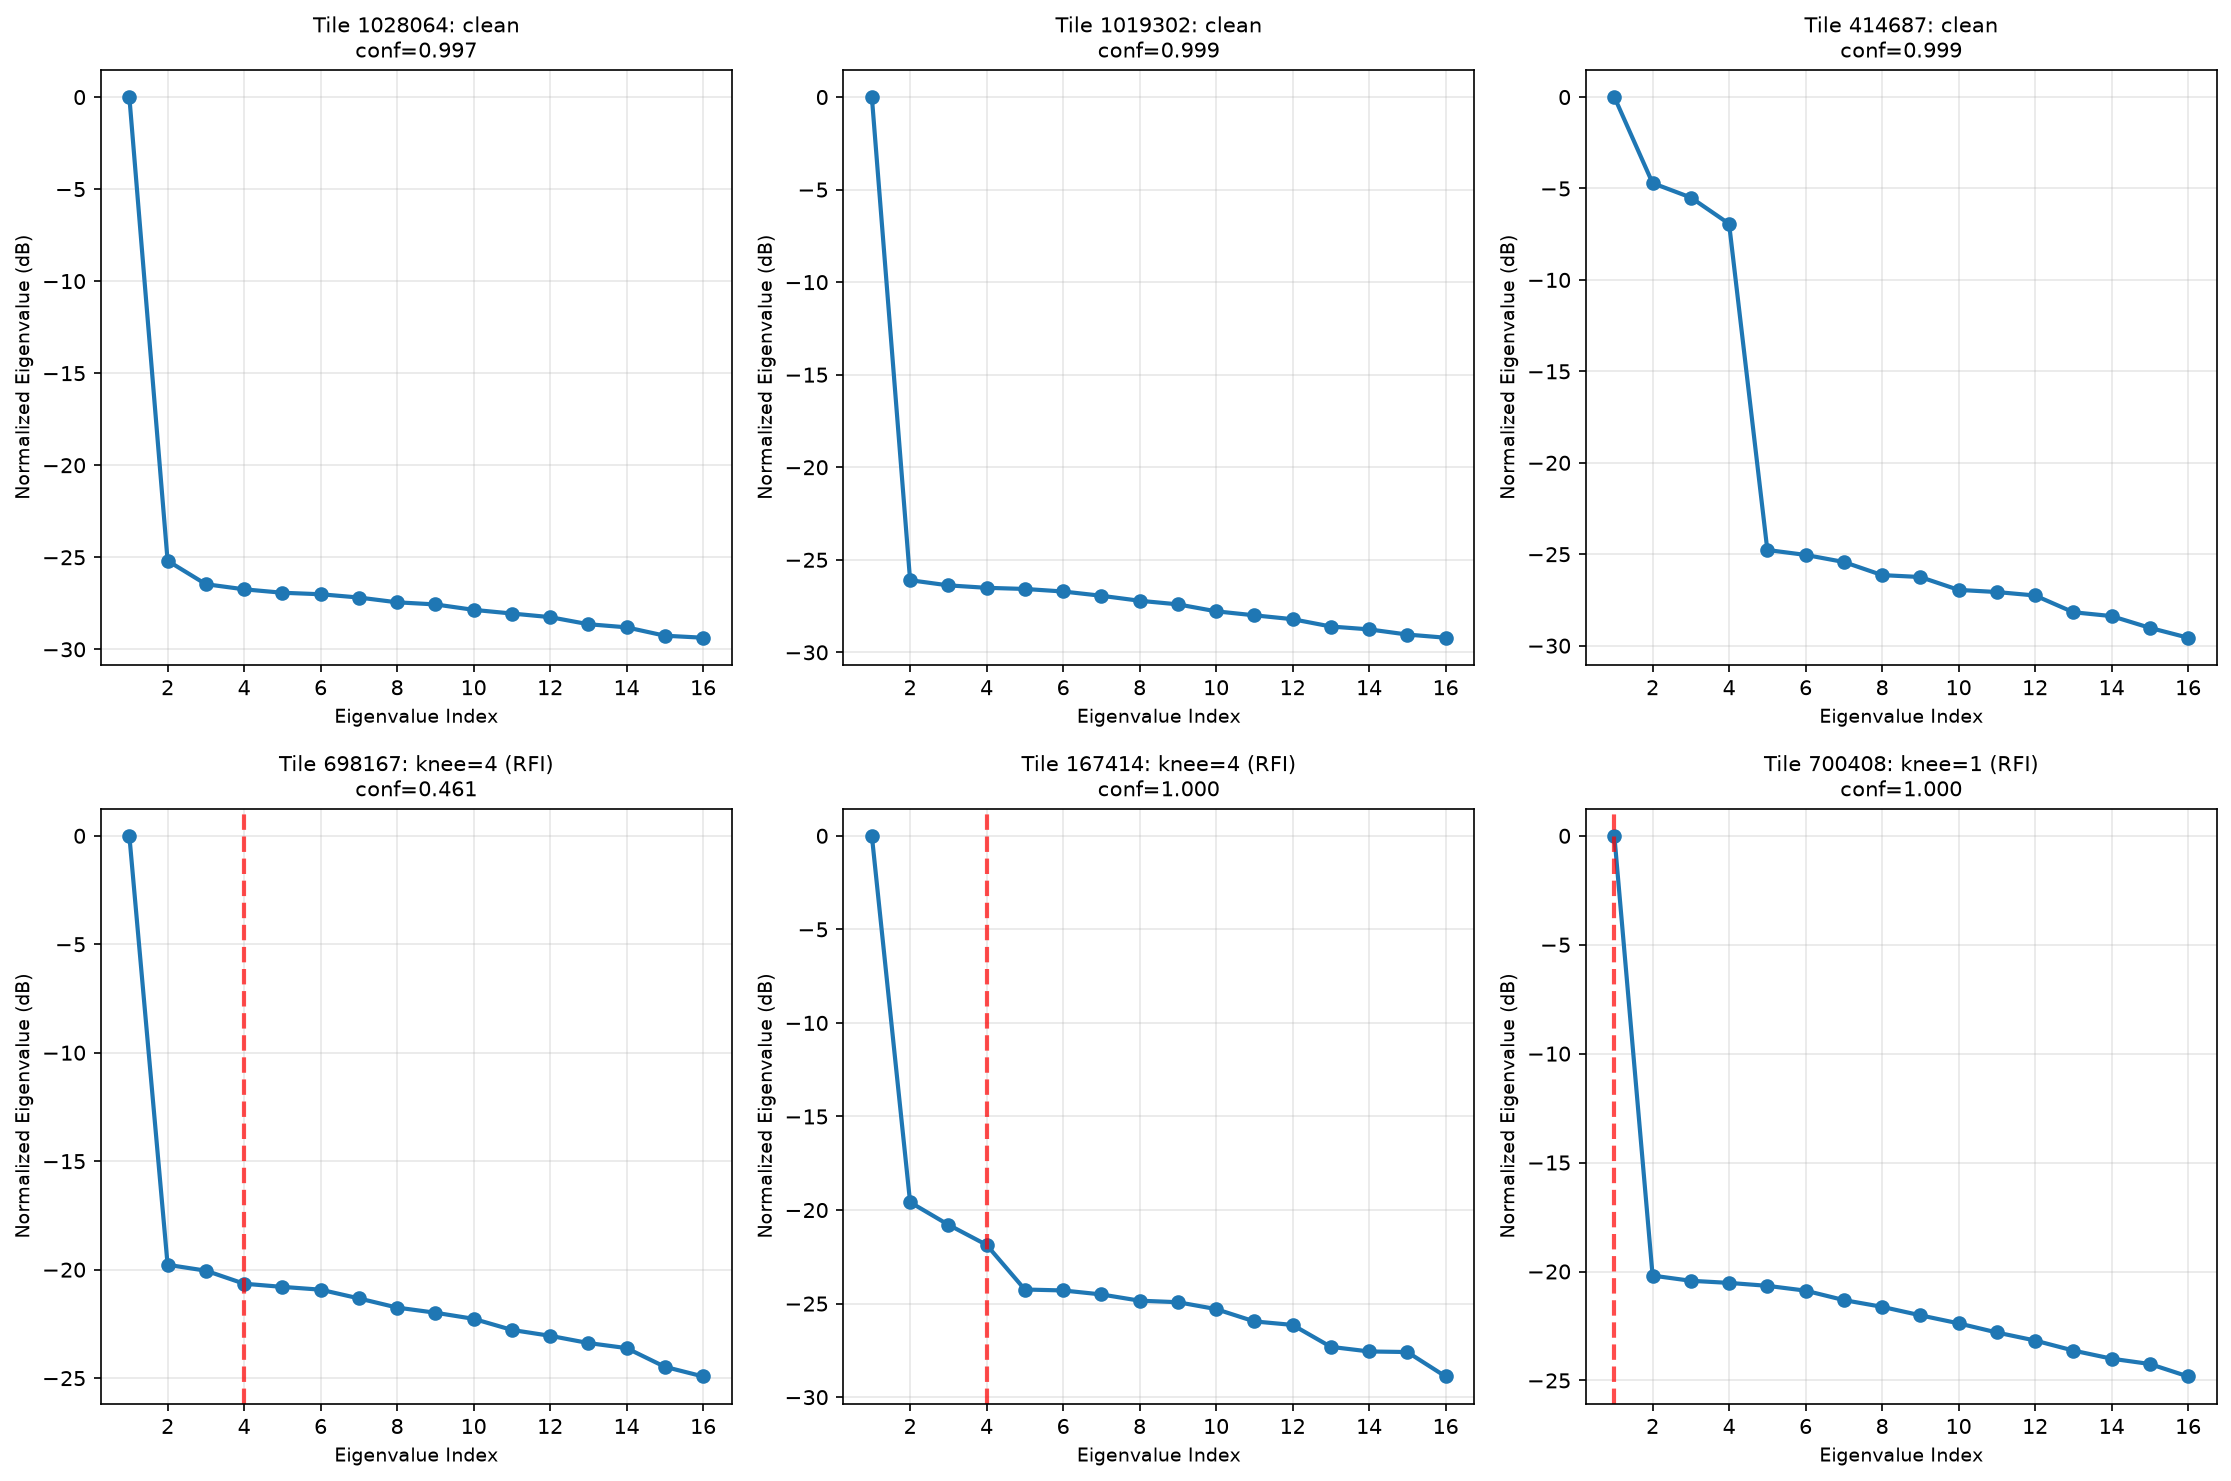
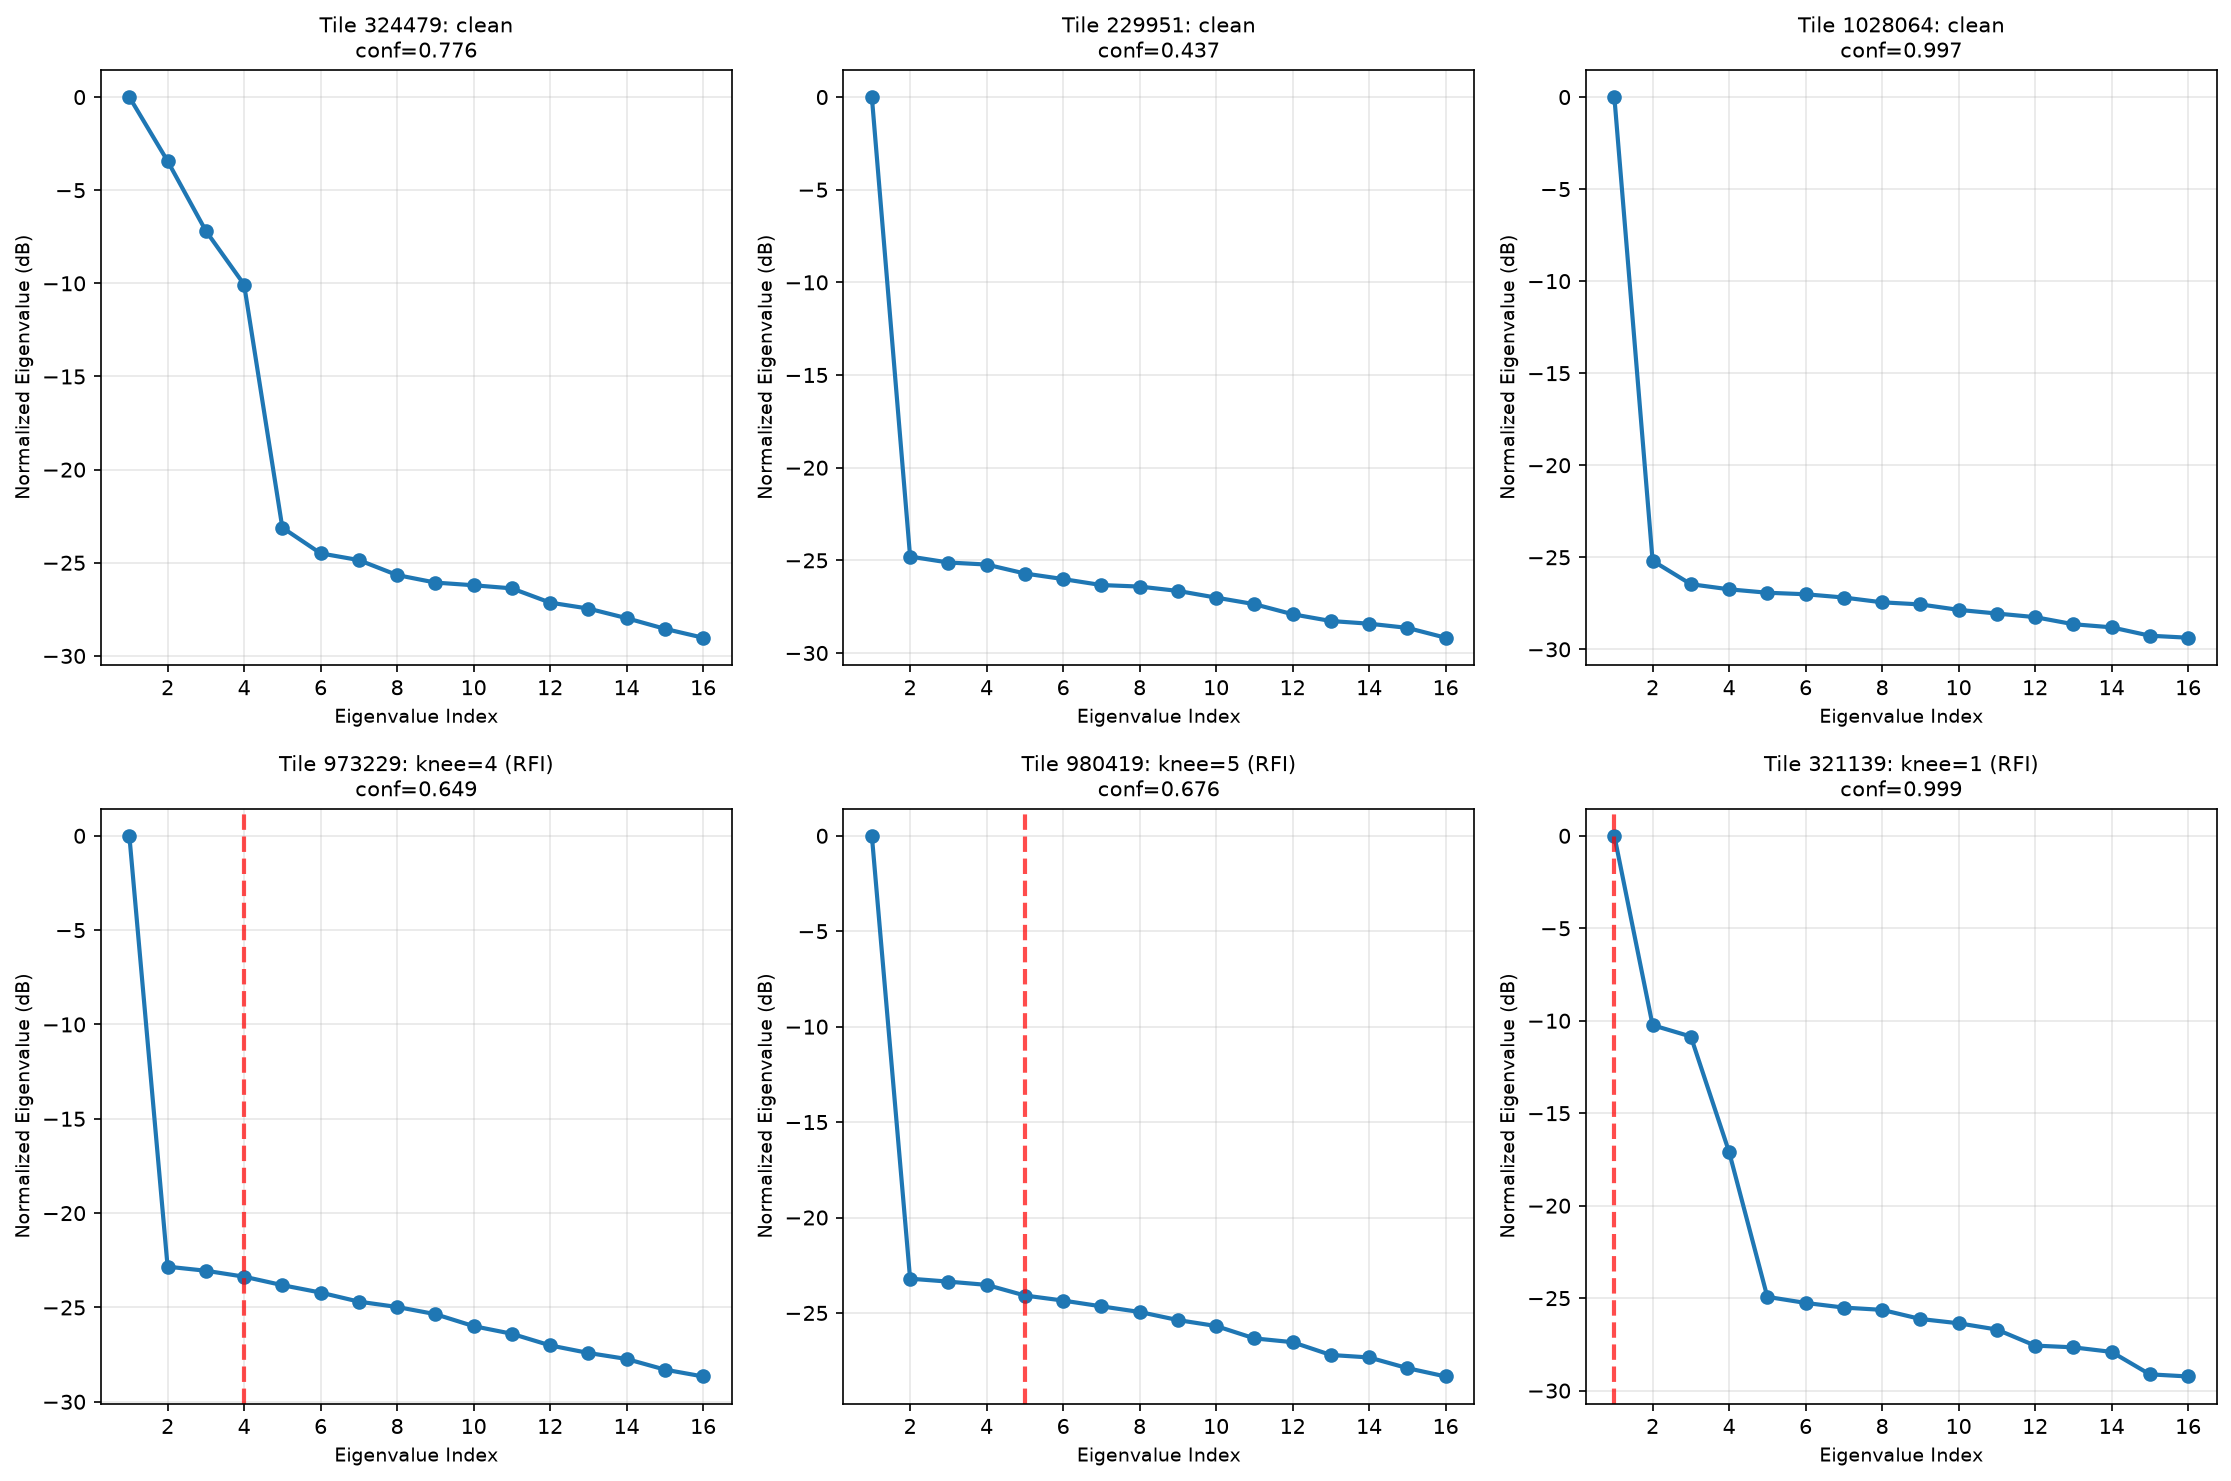
more plots

diff --git a/plot_nisar_results.py b/plot_nisar_results.py
@@ -175,38 +175,7 @@ def main():
     print(f"Saved: {eigval_path}")
     plt.close()
 
-    # Plot 4: Time series of predictions (flatten if spatial)
-    fig, (ax1, ax2) = plt.subplots(2, 1, figsize=(14, 8), sharex=True)
-
-    # Use flattened data for time series
-    knee_plot = knee_flat if is_spatial else knee_indices
-    conf_plot = conf_flat if is_spatial else confidences
-
-    # Knee predictions over time
-    ax1.plot(knee_plot, 'o', markersize=2, alpha=0.5)
-    ax1.axhline(args.knee_bound, color='red', linestyle='--', linewidth=2, label=f'Threshold={args.knee_bound}')
-    ax1.set_ylabel('Knee Index', fontsize=11)
-    ax1.set_title(f'RFI Predictions Over Time: {freq}-{pol}', fontsize=12)
-    ax1.grid(True, alpha=0.3)
-    ax1.legend()
-
-    # Confidence over time
-    ax2.plot(conf_plot, 'o', markersize=2, alpha=0.5, color='green')
-    ax2.axhline(np.mean(conf_plot), color='red', linestyle='--', linewidth=2,
-                label=f'Mean={np.mean(conf_plot):.3f}')
-    ax2.set_xlabel('Tile Index' if is_spatial else 'CPI Index', fontsize=11)
-    ax2.set_ylabel('Confidence', fontsize=11)
-    ax2.set_title('Prediction Confidence Over Time', fontsize=12)
-    ax2.grid(True, alpha=0.3)
-    ax2.legend()
-
-    plt.tight_layout()
-    time_path = output_dir / f'time_series_{freq}_{pol}.png'
-    plt.savefig(time_path, dpi=150, bbox_inches='tight')
-    print(f"Saved: {time_path}")
-    plt.close()
-
-    # Plot 5: Spatial maps (if data is 2D)
+    # Plot 4: Spatial maps (if data is 2D)
     if is_spatial:
         print(f"\nGenerating spatial maps...")
 
@@ -246,6 +215,40 @@ def main():
         spatial_path = output_dir / f'spatial_map_{freq}_{pol}.png'
         plt.savefig(spatial_path, dpi=200, bbox_inches='tight')
         print(f"Saved: {spatial_path}")
+        plt.close()
+
+        # Plot 5a: Original predictions (standalone)
+        fig, ax = plt.subplots(figsize=(12, 6))
+        im = ax.imshow(knee_indices, aspect='auto', cmap=cmap,
+                       vmin=0, vmax=args.knee_bound, origin='upper')
+        ax.set_xlabel('Range Tile Index', fontsize=11)
+        ax.set_ylabel('Pulse Tile Index', fontsize=11)
+        ax.set_title(f'Original RFI Predictions: {freq}-{pol}\n'
+                     f'{n_clean} clean, {n_rfi} RFI detected',
+                     fontsize=12)
+        cbar = plt.colorbar(im, ax=ax)
+        cbar.set_label('Knee Index', fontsize=11)
+        plt.tight_layout()
+        original_path = output_dir / f'spatial_map_original_{freq}_{pol}.png'
+        plt.savefig(original_path, dpi=200, bbox_inches='tight')
+        print(f"Saved: {original_path}")
+        plt.close()
+
+        # Plot 5b: Bounded predictions (standalone)
+        fig, ax = plt.subplots(figsize=(12, 6))
+        im = ax.imshow(knee_bounded, aspect='auto', cmap=cmap,
+                       vmin=0, vmax=args.knee_bound, origin='upper')
+        ax.set_xlabel('Range Tile Index', fontsize=11)
+        ax.set_ylabel('Pulse Tile Index', fontsize=11)
+        ax.set_title(f'Bounded Predictions (knee≤{args.knee_bound}): {freq}-{pol}\n'
+                     f'{n_recoverable} recoverable, {n_severe} severe',
+                     fontsize=12)
+        cbar = plt.colorbar(im, ax=ax)
+        cbar.set_label('Knee Index', fontsize=11)
+        plt.tight_layout()
+        bounded_path = output_dir / f'spatial_map_bounded_{freq}_{pol}.png'
+        plt.savefig(bounded_path, dpi=200, bbox_inches='tight')
+        print(f"Saved: {bounded_path}")
         plt.close()
 
         # Plot 6: Confidence spatial map
